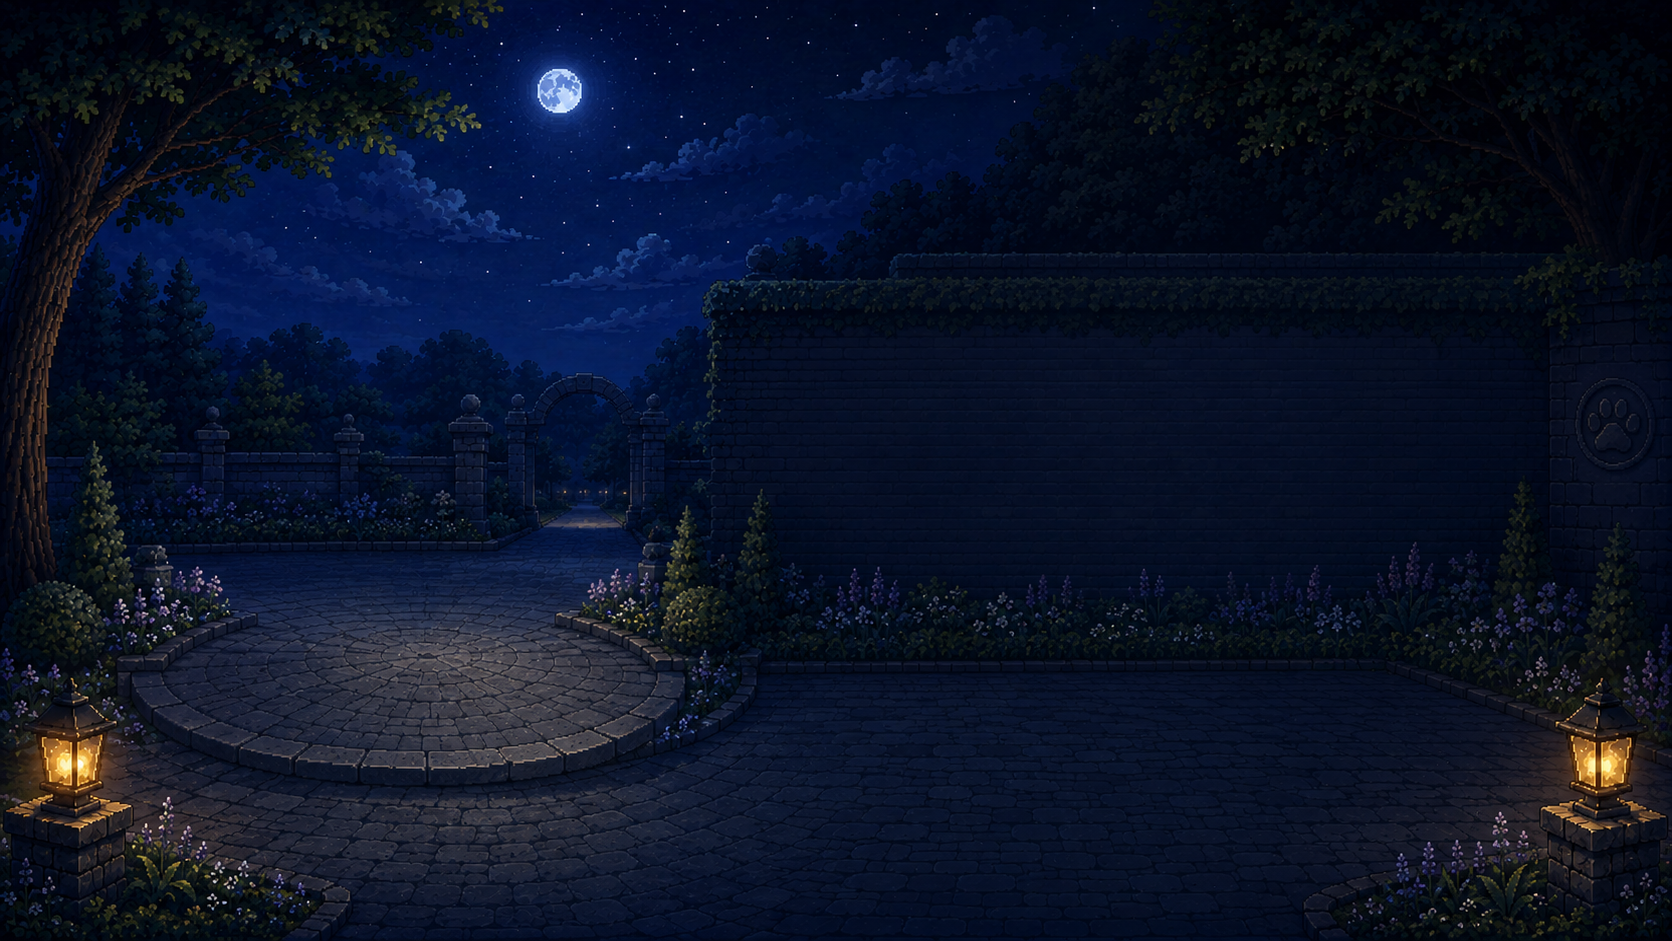
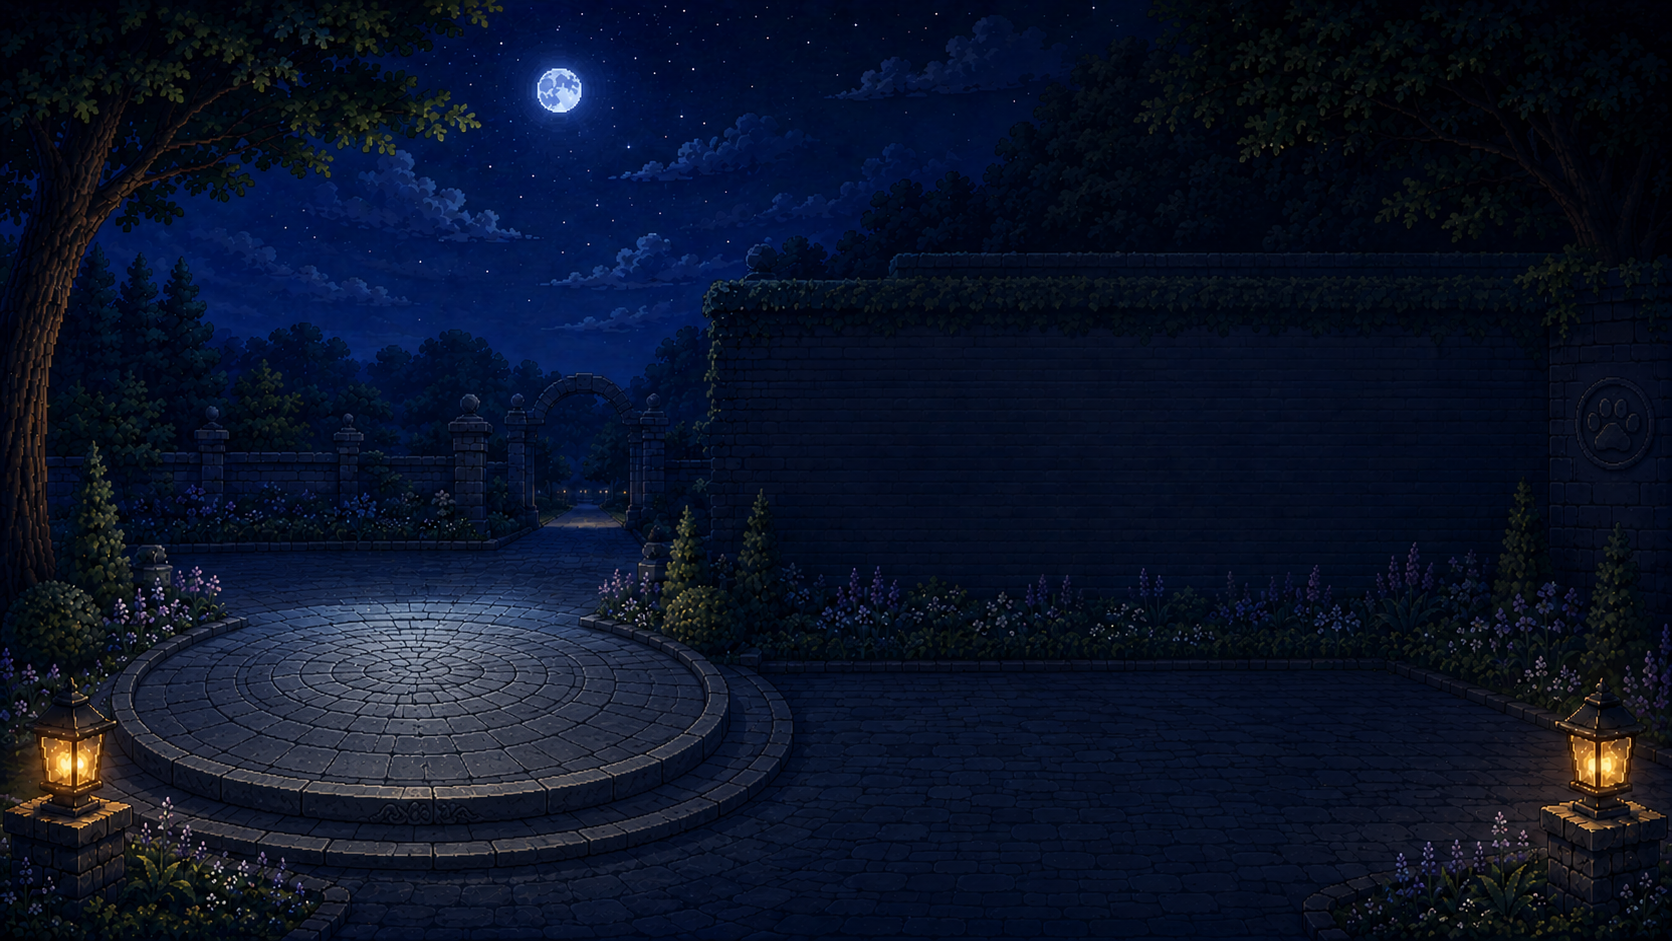
Add files via upload

diff --git a/create.html b/create.html
@@ -4,7 +4,7 @@
 <meta charset="UTF-8" />
 <meta name="viewport" content="width=device-width, initial-scale=1.0" />
 <title>创建墓碑｜STILLIGHT</title>
-<!-- version: v96-integrated-tombstone -->
+<!-- version: v97-rebuilt-centered-dais -->
 <style>
 *{box-sizing:border-box}
 html,body{margin:0;width:100%;height:100%;overflow:hidden;background:#050d19}
@@ -252,7 +252,7 @@ canvas{image-rendering:pixelated;display:block}
 }
 .preview-scene::after{display:none}
 .tombstone-wrap{
-  left:calc(50% + 20px);bottom:230px;width:424px;height:658px;
+  left:calc(50% + 20px);bottom:180px;width:424px;height:658px;
   transform:translateX(-50%) scale(.69);transform-origin:center bottom
 }
 .tombstone-img{
